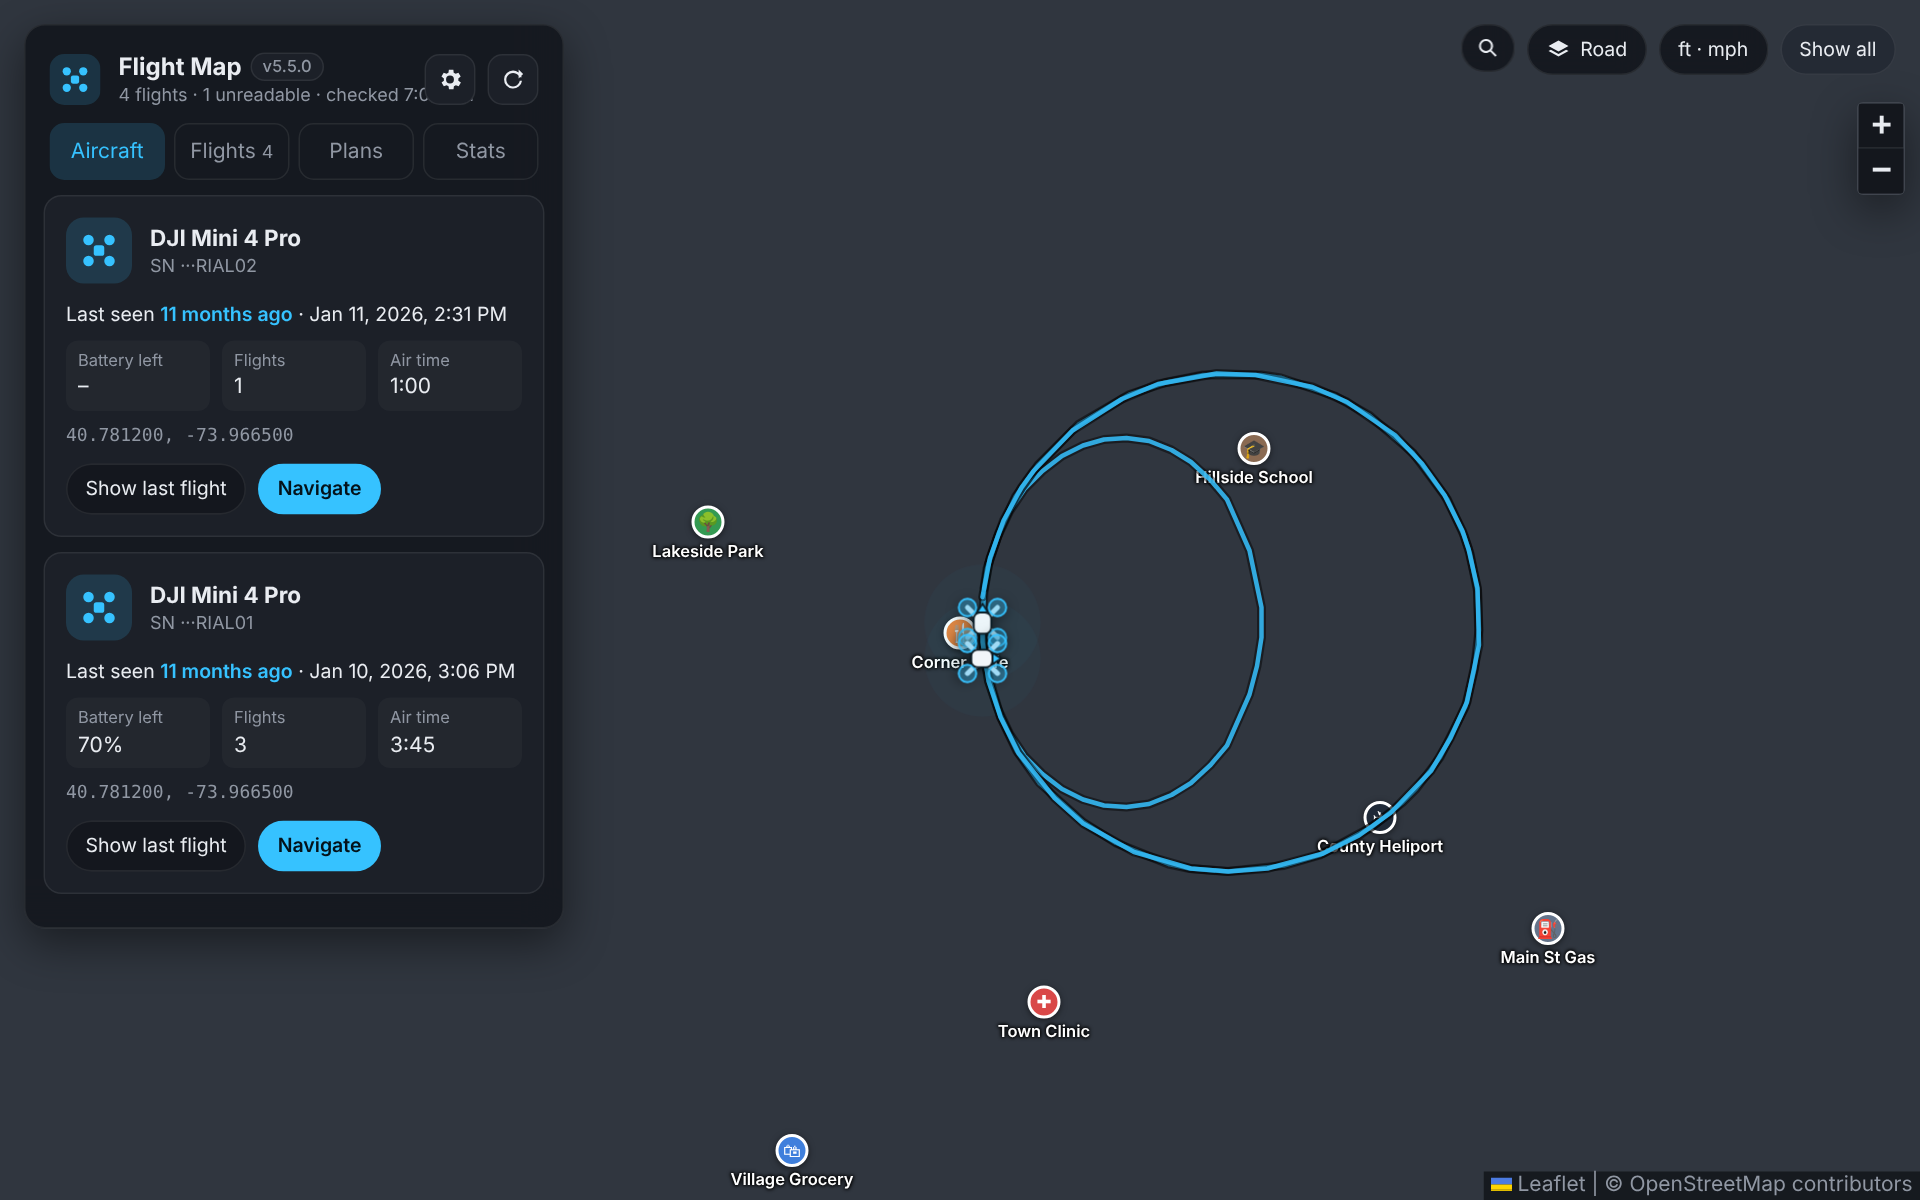
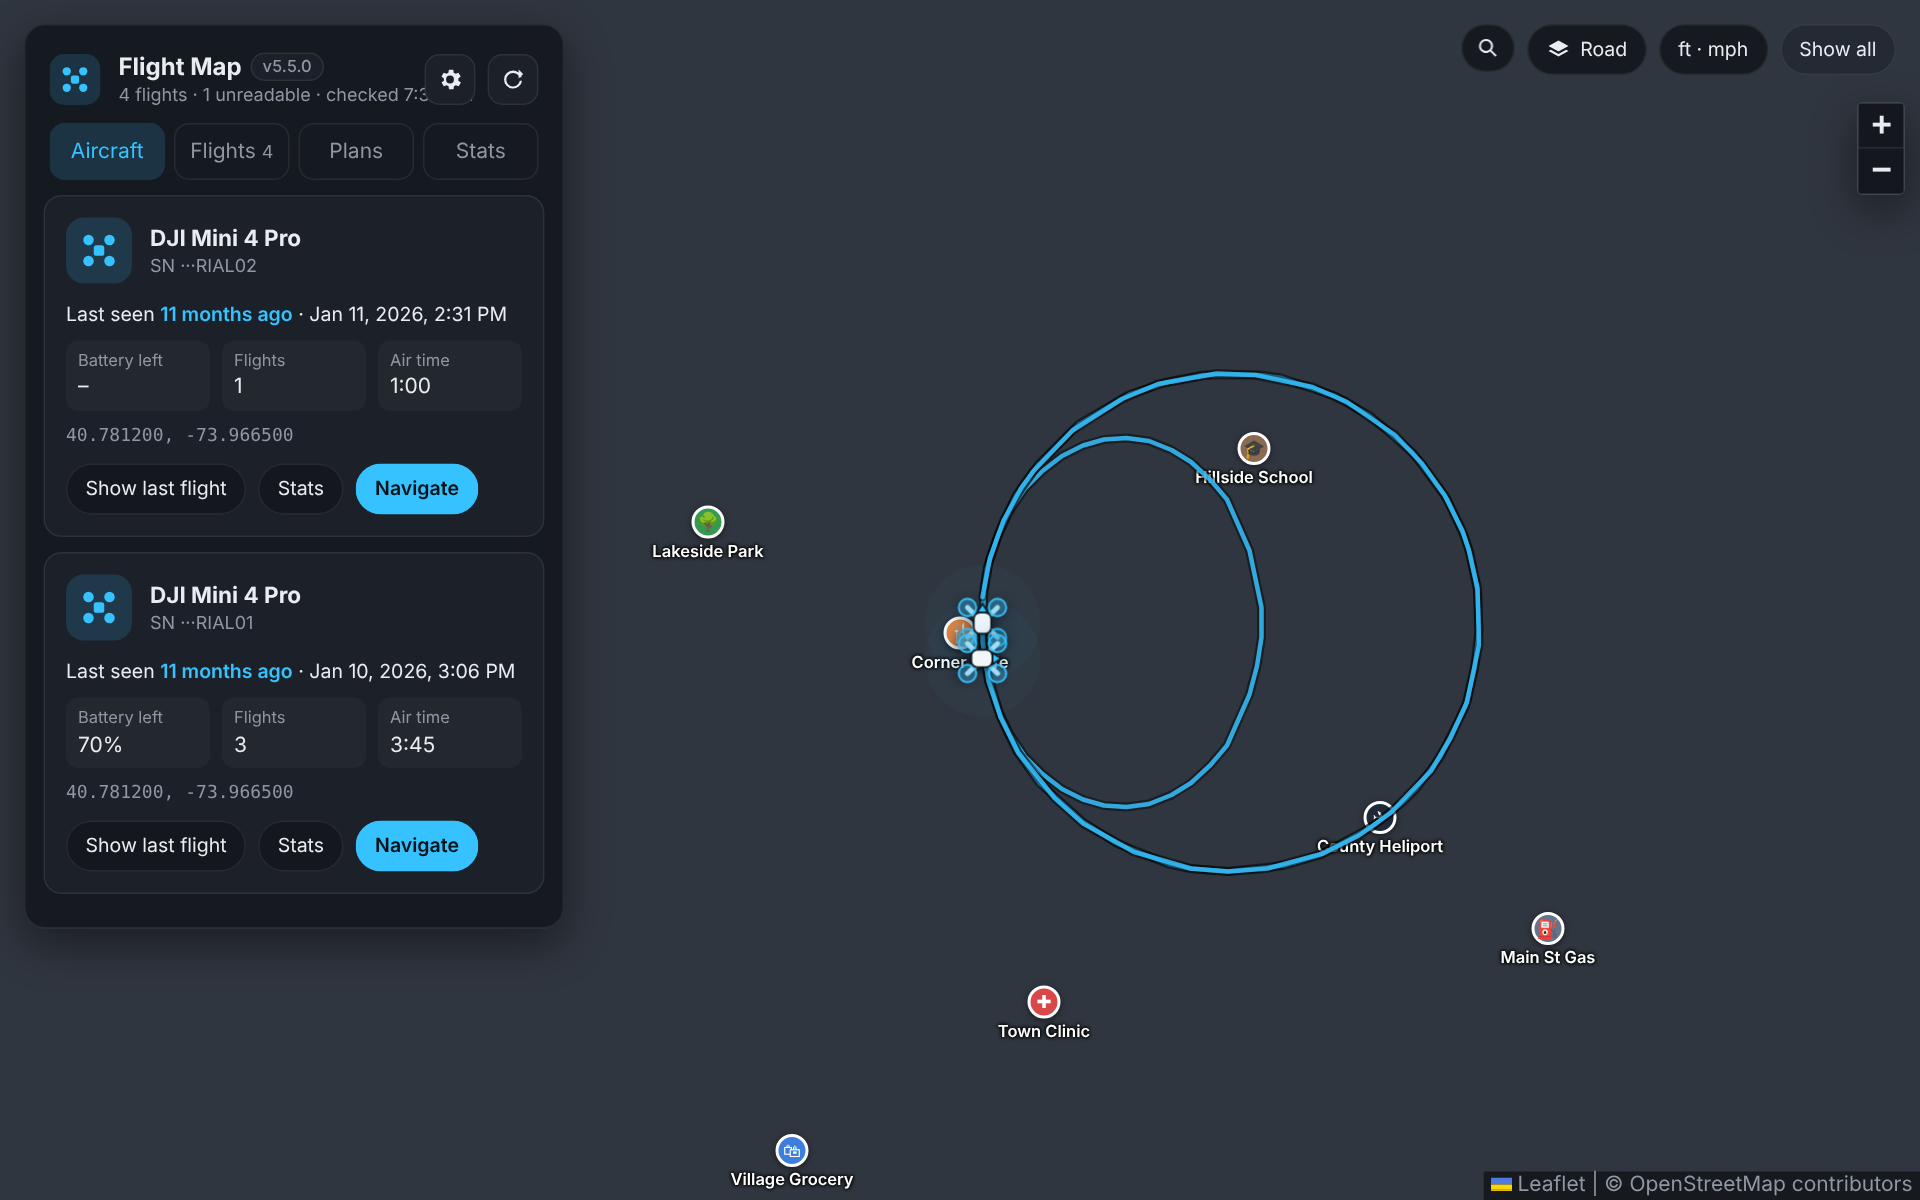
Stats for each drone (5.5.0)
The owner tested 5.5.0 and asked for the stats to be tied to each drone.
- Stats tab: a "Drone" choice (All drones / each drone) next to "Show";
  totals, calendar and records follow it.
- Aircraft tab: a Stats button on each drone's card opens the Stats tab
  set to that drone.
- Battery cards: only the batteries that flew in the chosen drone, still
  counting each battery's whole life, with "Flown in: <drone>".
- Tidier: temperature as "72-108 °F", a shorter capacity chart.

Claude-Session: https://claude.ai/code/session_01RP8EDcTECTeg73nUBMsUjT

Changed region(s): [[0.125, 0.6783, 0.25, 0.74], [0.125, 0.37, 0.25, 0.4317]]

diff --git a/app/static/stats.js b/app/static/stats.js
@@ -12,6 +12,7 @@ const RATED_MAH = { standard: 2590, plus: 3850 };
 const Stats = (() => {
   const box = () => $('#tab-stats');
   let period = loadSetting('statsPeriod', 'all');   // 'all' or a year, e.g. '2026'
+  let drone = loadSetting('statsDrone', 'all');     // 'all' or one drone's key (its serial number)
 
   const local = (iso) => new Date(iso);
   const plural = (n, word) => `${n} ${word}${n === 1 ? '' : 's'}`;
@@ -24,9 +25,31 @@ const Stats = (() => {
     return [...set].sort((a, b) => b - a).map(String);
   }
 
+  // A drone is told apart by its serial number (the name if a log has none),
+  // the same way as the Aircraft tab.
+  const droneKey = (f) => f.serial || f.aircraftName;
+
+  // Every drone in the logs, newest flight first, with a label that tells
+  // two drones of the same model apart (the end of the serial number).
+  function droneList() {
+    const seen = new Map();
+    for (const f of state.flights) {
+      const key = droneKey(f);
+      if (!seen.has(key)) {
+        const name = displayName(f.serial, f.aircraftName);
+        seen.set(key, { key, label: f.serial ? `${name} ${shortSerial(f.serial)}` : name });
+      }
+    }
+    return [...seen.values()];
+  }
+  const droneLabel = (key) => droneList().find((d) => d.key === key)?.label || key;
+
   function inPeriod(f) {
     return period === 'all' || (f.start && String(local(f.start).getFullYear()) === period);
   }
+
+  // The flights the tab is about: the chosen year AND the chosen drone.
+  const chosen = (f) => inPeriod(f) && (drone === 'all' || droneKey(f) === drone);
 
   // ---------- 1. totals ----------
   function totalsHtml(list) {
@@ -121,6 +144,7 @@ const Stats = (() => {
       const diffs = flights.filter((f) => f.cellDiffMax != null);
       return {
         serial, kind, flights, newest, caps, now, rated,
+        drones: [...new Set(flights.map(droneKey))],   // which drone(s) this battery flew in
         health: now && rated ? Math.min(100, Math.round((now / rated) * 100)) : null,
         rate: minutes ? used / minutes : null,
         tempMax: temps.length ? Math.max(...temps.map((f) => f.batteryTempMax)) : null,
@@ -135,7 +159,7 @@ const Stats = (() => {
   // A small line of the battery's full capacity, flight by flight.
   function capacityChart(b) {
     if (b.caps.length < 2) return '';
-    const W = 300, H = 44;
+    const W = 300, H = 32;
     const vals = b.caps.map((f) => f.batteryCapacity);
     const hi = Math.max(...vals, b.rated || 0), lo = Math.min(...vals) - 50;
     const x = (i) => 4 + (i / (vals.length - 1)) * (W - 8);
@@ -148,9 +172,20 @@ const Stats = (() => {
       <div class="st-hint">Full capacity, flight by flight${b.rated ? ' (dashed line: a new battery)' : ''}</div>`;
   }
 
+  // Coldest - warmest, with the unit once: "72–108 °F".
+  function tempRange(lo, hi) {
+    const f = units() === 'imperial';
+    const n = (c) => Math.round(f ? c * 9 / 5 + 32 : c);
+    return `${n(lo)}–${n(hi)} ${f ? '°F' : '°C'}`;
+  }
+
   function batteriesHtml() {
-    const list = batteryList();
-    if (!list.length) return '<p class="st-hint">No battery serial numbers in your logs yet.</p>';
+    // With one drone chosen: only the batteries that flew in it. Each card still
+    // counts the battery's WHOLE life (also flights in another drone).
+    const list = batteryList().filter((b) => drone === 'all' || b.drones.includes(drone));
+    if (!list.length) {
+      return `<p class="st-hint">${drone === 'all' ? 'No battery serial numbers in your logs yet.' : 'No battery serial numbers in this drone\'s logs.'}</p>`;
+    }
     return list.map((b) => {
       const name = { standard: 'Standard', plus: 'Plus' }[b.kind];
       const tiles = [
@@ -159,7 +194,7 @@ const Stats = (() => {
         tile('Last used', fmt.ago(b.newest.start)),
       ];
       if (b.rate != null) tiles.push(tile('Use per minute', `about ${b.rate.toFixed(1)}%`));
-      if (b.tempMax != null) tiles.push(tile('Temperature', `${fmt.temp(b.tempMin)} – ${fmt.temp(b.tempMax)}`));
+      if (b.tempMax != null) tiles.push(tile('Temperature', tempRange(b.tempMin, b.tempMax)));
       // Biggest voltage difference between the cells: in the newest flight, and the most ever seen.
       if (b.diffMax != null) {
         const mv = (v) => `${Math.round(v * 1000)} mV`;   // millivolts: 0.030 V = 30 mV
@@ -173,6 +208,7 @@ const Stats = (() => {
         </div>`;
       return `<article class="st-card battery" data-serial="${esc(b.serial)}">
         <div class="st-card-head"><h4>Battery ${esc(shortSerial(b.serial))}</h4>${name ? `<span class="tag">${esc(name)}</span>` : ''}</div>
+        <div class="flown-in">Flown in: ${b.drones.map((k) => esc(droneLabel(k))).join(', ')}</div>
         ${health}
         ${capacityChart(b)}
         <div class="st-grid">${tiles.join('')}</div>
@@ -205,28 +241,33 @@ const Stats = (() => {
     if (!state.flights.length) { el.innerHTML = emptyMessage(state.lastData || {}); return; }
     const ys = years();
     if (period !== 'all' && !ys.includes(period)) period = 'all';
-    const list = state.flights.filter(inPeriod);
-    const choice = `<label class="st-period">Show
-      <select id="st-period">
-        <option value="all"${period === 'all' ? ' selected' : ''}>All time</option>
-        ${ys.map((y) => `<option value="${y}"${period === y ? ' selected' : ''}>${y}</option>`).join('')}
-      </select></label>`;
+    const drones = droneList();
+    if (drone !== 'all' && !drones.some((d) => d.key === drone)) drone = 'all';
+    const list = state.flights.filter(chosen);
+    const opt = (value, label, now) => `<option value="${esc(value)}"${value === now ? ' selected' : ''}>${esc(label)}</option>`;
+    const choice = `<div class="st-choices">
+      <label class="st-period">Show
+        <select id="st-period">${opt('all', 'All time', period)}${ys.map((y) => opt(y, y, period)).join('')}</select></label>
+      <label class="st-period">Drone
+        <select id="st-drone">${opt('all', 'All drones', drone)}${drones.map((d) => opt(d.key, d.label, drone)).join('')}</select></label>
+    </div>`;
+    const who = drone === 'all' ? '' : ` <small>(${esc(droneLabel(drone))})</small>`;
     el.innerHTML = `
       ${choice}
-      <section class="st-section"><h3>Your flying</h3>${totalsHtml(list)}</section>
-      <section class="st-section"><h3>Days you flew</h3>${calendarHtml(list) || '<p class="st-hint">No dated flights.</p>'}</section>
-      <section class="st-section"><h3>Each drone</h3>${dronesHtml(list)}</section>
-      <section class="st-section"><h3>Battery health <small>(all time)</small></h3>${batteriesHtml()}</section>
-      <section class="st-section"><h3>Records</h3>${recordsHtml(list)}</section>`;
+      <section class="st-section"><h3>Your flying${who}</h3>${totalsHtml(list)}</section>
+      <section class="st-section"><h3>Days you flew${who}</h3>${calendarHtml(list) || '<p class="st-hint">No dated flights.</p>'}</section>
+      ${drone === 'all' ? `<section class="st-section"><h3>Each drone</h3>${dronesHtml(list)}</section>` : ''}
+      <section class="st-section"><h3>Battery health <small>(each battery's whole life)</small></h3>${batteriesHtml()}</section>
+      <section class="st-section"><h3>Records${who}</h3>${recordsHtml(list)}</section>`;
   }
 
   // ---------- buttons (one listener for the whole tab: its insides are redrawn) ----------
   function wire() {
     const el = box();
     el.addEventListener('change', (e) => {
-      if (e.target.id !== 'st-period') return;
-      period = e.target.value;
-      saveSetting('statsPeriod', period);
+      if (e.target.id === 'st-period') { period = e.target.value; saveSetting('statsPeriod', period); }
+      else if (e.target.id === 'st-drone') { drone = e.target.value; saveSetting('statsDrone', drone); }
+      else return;
       render();
     });
     el.addEventListener('click', (e) => {
@@ -245,5 +286,14 @@ const Stats = (() => {
   }
   wire();
 
-  return { render, batteryList };
+  // The "Stats" button on a drone's card (Aircraft tab): this tab, set to that drone.
+  function showDrone(key) {
+    drone = key;
+    saveSetting('statsDrone', drone);
+    document.querySelector('.tabs button[data-tab=stats]').click();
+    render();
+    box().scrollTop = 0;
+  }
+
+  return { render, batteryList, showDrone };
 })();

diff --git a/tests/browser.test.js b/tests/browser.test.js
@@ -670,6 +670,27 @@ function fakeInternet(ctx, { github = null } = {}) {
     await page.waitForTimeout(600);
     check('clicking a record opens that flight', await page.isVisible('#detail'));
     await page.click('#d-close');
+    check('  ...temperature shows the unit once (e.g. 68–86 °F)', /Temperature\d+–\d+ °[FC]/.test(await bat1.textContent()), await bat1.textContent());
+
+    // Stats per drone: a "Drone" choice, and a Stats button on each drone's card.
+    await page.click('[data-tab=stats]');
+    const droneOpts = await page.$$eval('#st-drone option', (els) => els.map((e) => e.value));
+    check('the Stats tab can show one drone (All drones + each drone)',
+      droneOpts[0] === 'all' && droneOpts.includes('TEST0000SERIAL01') && droneOpts.includes('TEST0000SERIAL02'), droneOpts.join(', '));
+    await page.selectOption('#st-drone', 'TEST0000SERIAL02');
+    let st = await page.textContent('#tab-stats');
+    check('  ...only that drone is counted (1 GeoJSON flight, no batteries)', st.includes('Flights1')
+      && /No battery serial numbers in this drone's logs/.test(st) && !/Each drone/.test(st), st.slice(0, 300));
+    await page.selectOption('#st-drone', 'TEST0000SERIAL01');
+    st = await page.textContent('#tab-stats');
+    check('  ...the other drone has its batteries, tagged with the drone they flew in',
+      (await page.locator('.battery').count()) === 2 && /Flown in: DJI Mini 4 Pro ···RIAL01/.test(st), st.slice(0, 300));
+    await page.click('[data-tab=aircraft]');
+    await page.locator('.aircraft[data-key=TEST0000SERIAL02] [data-act=stats]').click();
+    await page.waitForTimeout(200);
+    check("a drone's Stats button opens the Stats tab set to that drone",
+      await page.isVisible('#tab-stats') && (await page.inputValue('#st-drone')) === 'TEST0000SERIAL02');
+    await page.selectOption('#st-drone', 'all');
     await page.click('[data-tab=aircraft]');
     check('no errors on the map page', errors.length === 0, errors.join(' | '));
     await ctx.close();

diff --git a/app/static/style.css b/app/static/style.css
@@ -221,6 +221,10 @@ a.icon-btn { color: var(--text); }
 .flight .badge.nogps { color: var(--muted); font-style: italic; }
 
 /* ---------- Stats tab (5.5.0) ---------- */
+.st-choices { display: flex; flex-wrap: wrap; gap: 6px 14px; margin: 0 0 6px; }
+.st-choices .st-period { margin: 0 4px; }
+.st-choices select { max-width: 220px; }
+.flown-in { color: var(--muted); font-size: 12px; margin: -4px 0 8px; }
 .st-period { display: flex; align-items: center; gap: 8px; color: var(--muted); font-size: 13px; margin: 0 4px 6px; }
 .st-period select { font: inherit; color: var(--text); background: var(--card); border: 1px solid var(--line); border-radius: 8px; padding: 4px 8px; }
 .st-section { margin: 10px 0 14px; }
@@ -245,7 +249,7 @@ a.icon-btn { color: var(--text); }
 .health-text b { font-size: 16px; color: var(--accent); }
 .health-bar { height: 8px; border-radius: 4px; background: rgba(255,255,255,0.08); overflow: hidden; }
 .health-bar i { display: block; height: 100%; background: var(--accent); border-radius: 4px; }
-.cap-chart { width: 100%; height: 44px; display: block; margin-top: 4px; }
+.cap-chart { width: 100%; height: 32px; display: block; margin-top: 4px; }
 .cap-chart polyline { fill: none; stroke: var(--accent); stroke-width: 1.5; vector-effect: non-scaling-stroke; }
 .cap-chart .rated { stroke: var(--muted); stroke-width: 1; stroke-dasharray: 4 4; vector-effect: non-scaling-stroke; }
 .cal-row { display: grid; grid-template-columns: 64px 1fr; align-items: center; gap: 6px; margin: 3px 0; font-size: 11px; color: var(--muted); }

diff --git a/app/static/overview.js b/app/static/overview.js
@@ -62,11 +62,12 @@ function renderAircraft(data) {
           <div><span>Flights</span>${a.flights.length}</div>
           <div><span>Air time</span>${esc(fmt.dur(a.totalTime))}</div>
         </div>
-        ${a.last ? `<div class="coord">${esc(fmt.coord(a.last.lat, a.last.lon))}</div>
+        ${a.last ? `<div class="coord">${esc(fmt.coord(a.last.lat, a.last.lon))}</div>` : ''}
         <div class="actions">
-          <button class="chip" data-act="show">Show last flight</button>
-          <a class="chip accent" href="${navUrl(a.last.lat, a.last.lon)}" target="_blank" rel="noopener">Navigate</a>
-        </div>` : ''}
+          ${a.last ? '<button class="chip" data-act="show">Show last flight</button>' : ''}
+          <button class="chip" data-act="stats" type="button">Stats</button>
+          ${a.last ? `<a class="chip accent" href="${navUrl(a.last.lat, a.last.lon)}" target="_blank" rel="noopener">Navigate</a>` : ''}
+        </div>
       </article>`;
   }).join('');
 
@@ -74,6 +75,8 @@ function renderAircraft(data) {
     card.addEventListener('click', (ev) => {
       if (ev.target.closest('a')) return;  // let the Navigate link open normally
       const a = list.find((x) => x.key === card.dataset.key);
+      // "Stats": the Stats tab, showing only this drone (5.5.0).
+      if (ev.target.closest('[data-act=stats]')) { if (a) Stats.showDrone(a.key); return; }
       if (a?.lastFlight) selectFlight(a.lastFlight.id);
       else if (a?.flights[0]) selectFlight(a.flights[0].id);
     });

diff --git a/README.md b/README.md
@@ -332,16 +332,22 @@ When the dock adds new flights, they show up within about a minute.
 Everything here is worked out from your flight logs, in your browser.
 Nothing extra is stored or sent anywhere.
 
-- **Show:** *All time* or one year.
+- **Show:** *All time* or one year. **Drone:** *All drones* or one drone
+  (told apart by the end of its serial number). The **Stats** button on a
+  drone's card in the **Aircraft** tab opens this tab already set to that
+  drone.
 - **Your flying:** number of flights, air time, distance, days flown, photos
   and video.
 - **Days you flew:** one row per month, one square per day. Darker = more air
   time that day. Point at a square for the number of flights; **click it** to
   see that day's flights in the Flights tab.
-- **Each drone:** flights, air time and distance per drone.
-- **Battery health** (always all time, a battery's whole life), one card per
-  battery, told apart by its serial number (only the last 6 characters are
-  shown):
+- **Each drone:** flights, air time and distance per drone (only shown with
+  *All drones*).
+- **Battery health**, one card per battery, told apart by its serial number
+  (only the last 6 characters are shown). With one drone chosen, only the
+  batteries that flew in it. Each card counts the battery's **whole life**
+  (every year, and flights in another drone too), and says which drone(s)
+  it was **flown in**:
   - **% of a new one:** how much the battery holds now (its *full capacity*
     in the newest log) compared with a new one. For the Mini 3 / Mini 4 Pro
     batteries that is DJI's spec (Standard 2590 mAh, Plus 3850 mAh); for

diff --git a/CLAUDE.md b/CLAUDE.md
@@ -518,6 +518,12 @@ owner confirms it works**, release it with a tag (`git tag -a vX.Y.Z` +
   ~0.04 V, zSpeed +-5.2 m/s (real, not a bug). A GeoJSON-only flight said
   `videoTime` 23564 for 420 s: `trusted_video_time()` drops a video longer
   than the flight (+5 s) instead of guessing it is milliseconds.
+  Stats per drone (owner's wish after testing 5.5.0: "tagged to the drone
+  not just on the stats page"; they chose BOTH): `#st-drone` choice
+  (`statsDrone` in localStorage, key = serial || name, like aircraftList)
+  and a Stats button on each Aircraft card (`Stats.showDrone`). Battery
+  cards: filtered to the drone, but always the battery's whole life, with
+  "Flown in". Folded into 5.5.0 (owner's choice) before its release.
 - **`LiveLoginLockout` is flaky in Claude's sandbox** (Nov 2026, during
   5.5.0): "broken connection" for 2-9 of 30 guesses in about 2 of 3 runs, the
   same on the unchanged 5.4.2 code. Not changed yet: ask the owner first
